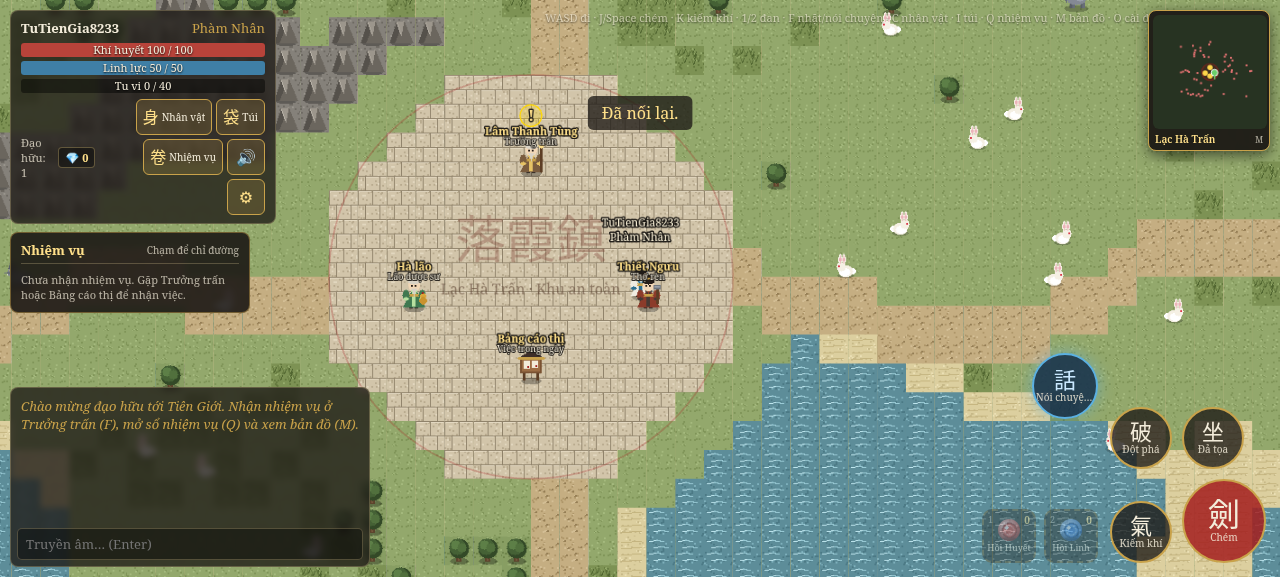
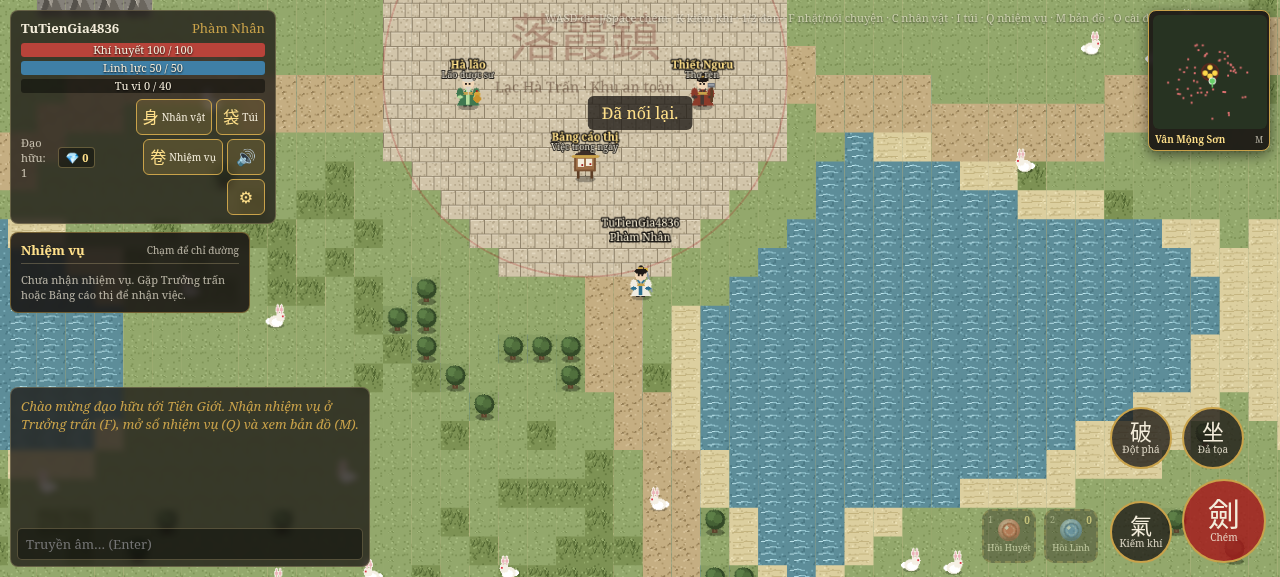
fix(client): cải thiện trải nghiệm nối lại mạng sau #122

diff --git a/client/src/ui.ts b/client/src/ui.ts
@@ -2164,19 +2164,13 @@ export const ui = {
       $("death-t").textContent = `Hồi sinh tại Lạc Hà Trấn sau ${secondsLeft}s`;
   },
 
+  /** Banner đỏ khi đang nối lại (chỉ một khung, không kèm toast trùng nội dung). */
   showReconnectNotice(text: string) {
     const banner = $("reconnect-banner");
     banner.hidden = false;
+    banner.classList.remove("failed");
+    $("reconnect-reload").hidden = true;
     $("reconnect-banner-text").textContent = text;
-
-    let p = document.getElementById("toast-reconnecting");
-    if (!p) {
-      p = document.createElement("p");
-      p.id = "toast-reconnecting";
-      p.className = "bad reconnecting";
-      $("toast").prepend(p);
-    }
-    p.textContent = text;
 
     document.body.classList.add("reconnecting");
     this.closeAllModals();
@@ -2184,9 +2178,20 @@ export const ui = {
     this.closePlayerMenu();
   },
 
+  /** Nối lại thất bại hẳn: giữ banner cố định kèm nút tải lại trang, vẫn chặn điều khiển. */
+  showReconnectFailed(text: string) {
+    this.showReconnectNotice(text);
+    $("reconnect-banner").classList.add("failed");
+    const reload = $("reconnect-reload") as HTMLButtonElement;
+    reload.hidden = false;
+    reload.onclick = () => location.reload();
+  },
+
   hideReconnectNotice() {
-    $("reconnect-banner").hidden = true;
-    document.getElementById("toast-reconnecting")?.remove();
+    const banner = $("reconnect-banner");
+    banner.hidden = true;
+    banner.classList.remove("failed");
+    $("reconnect-reload").hidden = true;
     document.body.classList.remove("reconnecting");
   },
 };

diff --git a/client/src/main.ts b/client/src/main.ts
@@ -61,15 +61,21 @@ form.addEventListener("submit", async (e) => {
   }
 });
 
+const FAIL_TEXT = "Mất kết nối với Tiên Giới. Tải lại trang để vào lại.";
+
+/** Không nối lại được: chặn điều khiển, giữ banner cố định kèm nút "Tải lại trang". */
+function showDisconnected() {
+  activeScene?.setReconnecting(true);
+  ui.showReconnectFailed(FAIL_TEXT);
+}
+
 function setupRoomLifecycle(room: Room) {
   activeToken = room.reconnectionToken;
 
   room.onLeave(async (code) => {
     // 1000: đóng bình thường; 4000-4999: mã của ứng dụng (4000 chủ động thoát, 4429 bị ngắt vì spam)
     if (code === 1000 || (code >= 4000 && code <= 4999)) {
-      if (code !== 1000) {
-        ui.toast({ text: "Mất kết nối với Tiên Giới. Tải lại trang để vào lại.", tone: "bad" });
-      }
+      if (code !== 1000) showDisconnected();
       return;
     }
 
@@ -112,9 +118,9 @@ function setupRoomLifecycle(room: Room) {
       ui.toast({ text: "Đã nối lại.", tone: "good" });
       setupRoomLifecycle(reconnectedRoom);
     } else {
-      activeScene?.setReconnecting(false);
+      // Thất bại hẳn (hết 20 giây / token hết hạn): KHÔNG ẩn banner, vẫn chặn điều khiển
       isReconnecting = false;
-      ui.toast({ text: "Mất kết nối với Tiên Giới. Tải lại trang để vào lại.", tone: "bad" });
+      showDisconnected();
     }
   });
 }

diff --git a/client/src/style.css b/client/src/style.css
@@ -2213,6 +2213,10 @@ body.low-fx #btn-talk {
   top: max(10px, env(safe-area-inset-top));
   left: 50%;
   transform: translateX(-50%);
+  /* left: 50% làm khối co theo 50vw; đặt bề rộng theo nội dung, tối đa gần hết màn hình */
+  width: max-content;
+  max-width: calc(100vw - 24px);
+  box-sizing: border-box;
   background: rgba(163, 29, 29, 0.92);
   color: #fff;
   border: 1px solid #ff7875;
@@ -2244,15 +2248,33 @@ body.low-fx #btn-talk {
     transform: scale(1.2);
   }
 }
-body.reconnecting #hud-controls,
+/* Nối lại thất bại hẳn: banner nhận chạm để bấm nút tải lại, chấm đỏ đứng yên */
+.reconnect-banner.failed {
+  pointer-events: auto;
+  padding: 6px 6px 6px 16px;
+}
+.reconnect-banner.failed .reconnect-dot {
+  animation: none;
+}
+.reconnect-reload {
+  flex: none;
+  min-height: 44px;
+  min-width: 44px;
+  padding: 0 16px;
+  border-radius: 22px;
+  border: 1px solid #ffd591;
+  background: #fff1d6;
+  color: #7a1010;
+  font: inherit;
+  font-weight: 700;
+  cursor: pointer;
+}
 body.reconnecting #joyzone,
+body.reconnecting #skills,
+body.reconnecting #quickbar,
 body.reconnecting #btn-talk,
 body.reconnecting #btn-pickup {
   opacity: 0.35;
   pointer-events: none;
   filter: grayscale(0.5);
-}
-#toast-reconnecting {
-  animation: none !important;
-  opacity: 1 !important;
 }

diff --git a/client/src/scenes/WorldScene.ts b/client/src/scenes/WorldScene.ts
@@ -592,11 +592,12 @@ export class WorldScene extends Phaser.Scene {
   public attachRoom(room: Room) {
     this.room = room;
     this.clearEntities();
+    // hasMe = false: lấy lại vị trí từ state của Room mới ở lần reconcile đầu
     this.hasMe = false;
     this.pending.length = 0;
-    this.predX = 0;
-    this.predY = 0;
-    this.seq = 0;
+    // Giữ seq tăng liên tục, không đặt lại 0: sau khi nối lại state.lastSeq vẫn là giá trị cũ
+    // cho tới khi server xử lý input đầu tiên, reconcile() lọc pending bằng seq > lastSeq
+    // nên seq bắt đầu lại từ 1 sẽ bị coi là đã xác nhận và nhân vật giật lùi.
     this.moving = false;
     this.setupNetwork(false);
   }

diff --git a/client/index.html b/client/index.html
@@ -373,6 +373,9 @@
       <div id="reconnect-banner" class="reconnect-banner" hidden>
         <span class="reconnect-dot"></span>
         <span id="reconnect-banner-text">Mất kết nối · Đang nối lại...</span>
+        <button type="button" id="reconnect-reload" class="reconnect-reload" hidden>
+          Tải lại trang
+        </button>
       </div>
 
       <div id="toast"></div>
